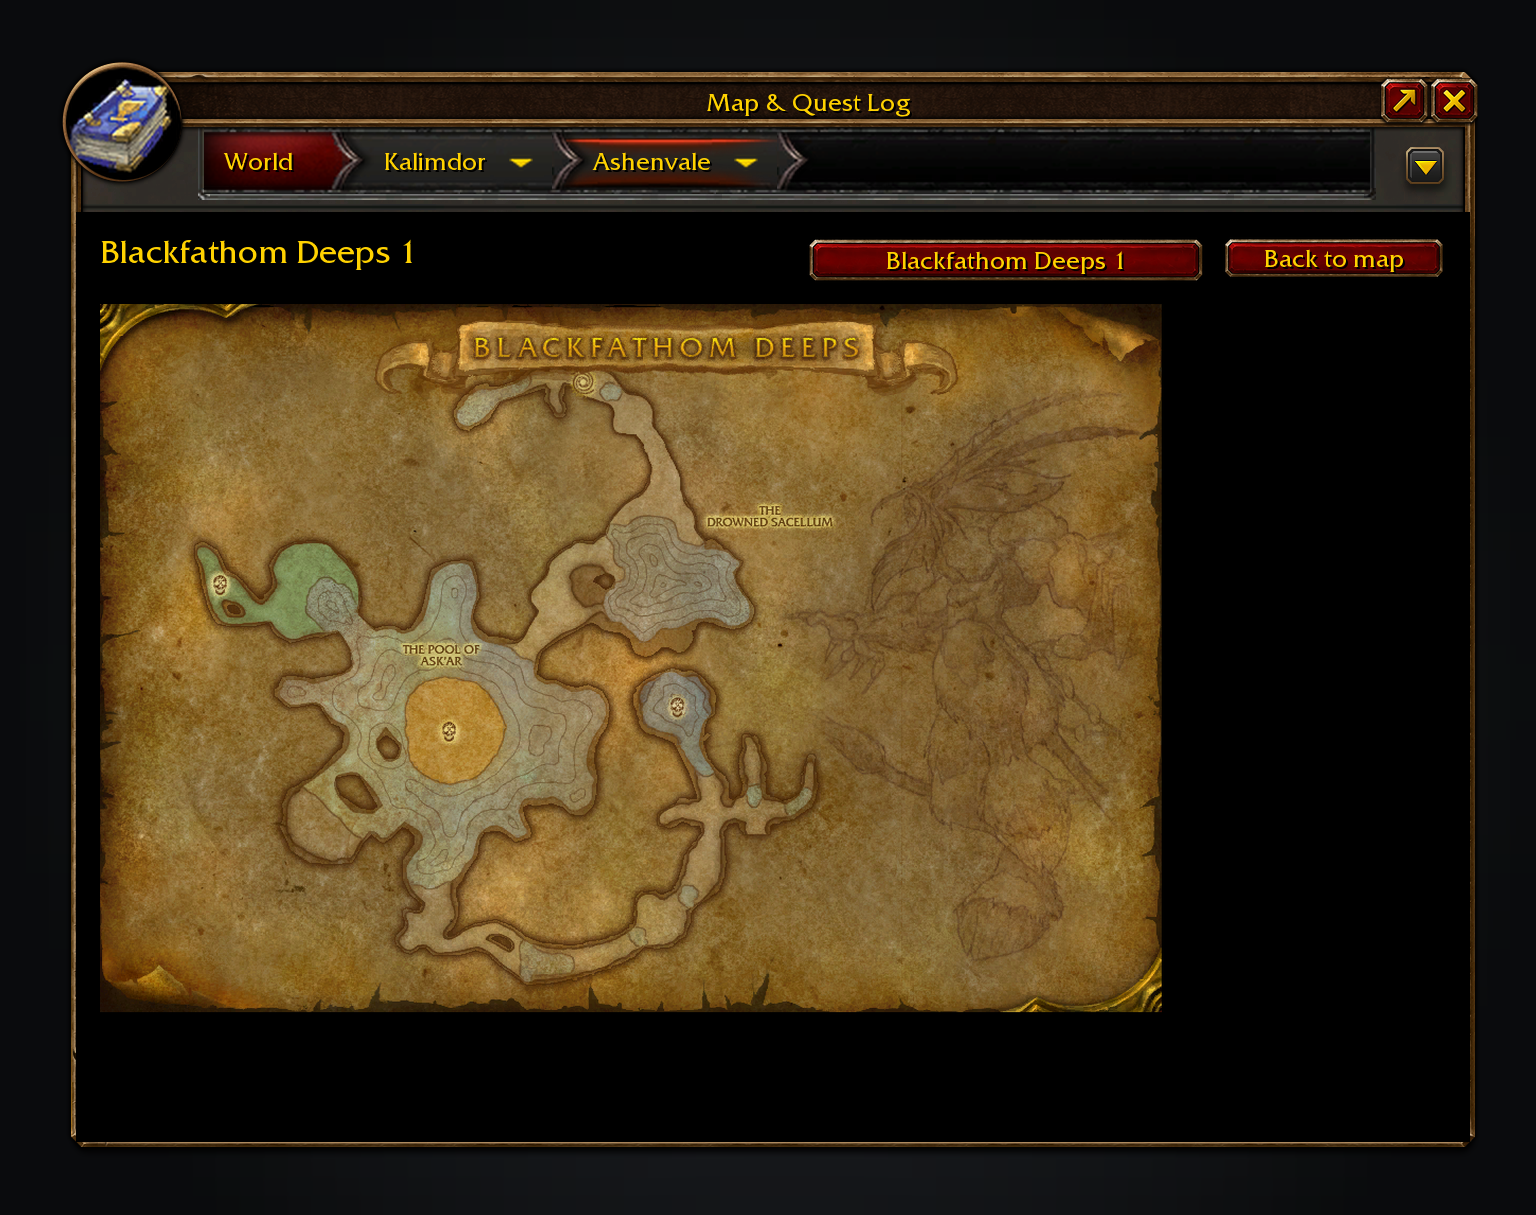
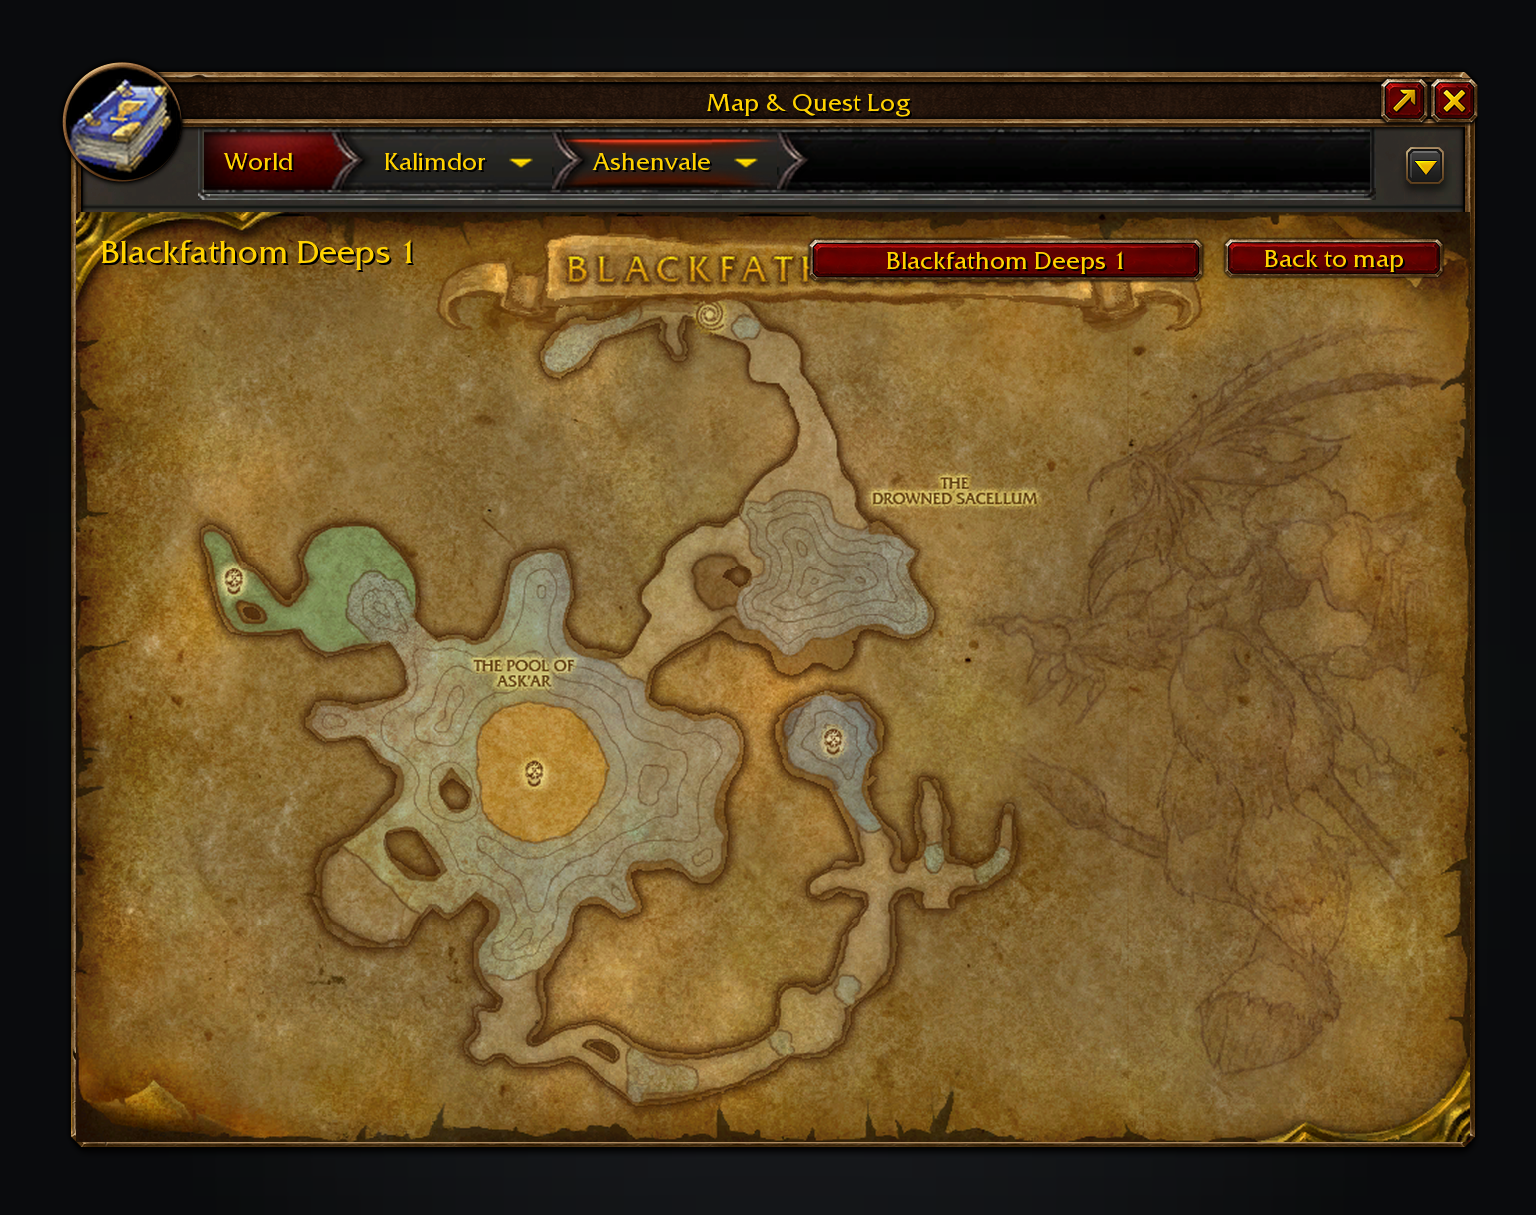
docs: dungeon map screenshot fills the map at the art's ratio
The mock drew square 256px tiles letterboxed under a header. Draw them the way
Map/DungeonMaps.lua Layout() does: across the whole map container, each tile
cropped to its slice of the 1002x668 art, heading and buttons on top. The
container keeps the art's 1.5 ratio windowed and maximized, and the test now
asserts the drawn art keeps it.

Closes #581

Claude-Session: https://claude.ai/code/session_01KXatHKtCmQE3CtSK7hYQAU

diff --git a/tools/screenshots_test.py b/tools/screenshots_test.py
@@ -5,36 +5,89 @@ import unittest
 from pathlib import Path
 from unittest.mock import Mock
 
+from PIL import Image
+
+# Map/DungeonMaps.lua: the art's canvas, and the padded tile each of the four by three textures holds.
+ART_WIDTH, ART_HEIGHT, TEXEL = 1002, 668, 256
+# The decoded size of a tile texture, whatever the art's canvas is: texcoords are fractions of it.
+TEXTURE = 512
+# The world map's scroll container, and its maximized size. forever-core's wowmock sizes it WORLD_MAP_WIDTH 702 - 5 by
+# WORLD_MAP_HEIGHT 534 - 2 - 67, and Blizzard scales to the same ratio when maximized: the art is never stretched.
+CONTAINER, MAXIMIZED = (697, 465), (1394, 930)
+SIZES = (CONTAINER, MAXIMIZED)
+
+
+def dungeon_map(width, height):
+    """`dungeon_map` from tools/screenshots.py, with the art replaced by a real image and the map stubbed."""
+    source = Path(__file__).with_name("screenshots.py").read_text()
+    tree = ast.parse(source)
+    function = next(node for node in tree.body if isinstance(node, ast.FunctionDef) and node.name == "dungeon_map")
+    frame, ui = Mock(), Mock()
+    ui.texture.return_value = Image.new("RGBA", (TEXTURE, TEXTURE))
+    scope = {
+        "ASHENVALE": 43,
+        "FONTS": {"GameFontNormalLarge": object()},
+        "map_art": Mock(),
+        "ui_panel_button": Mock(),
+        "world_map_frame": Mock(return_value=(frame, {"container": (20, 30, width, height)})),
+    }
+    exec(compile(ast.Module(body=[function], type_ignores=[]), "screenshots.py", "exec"), scope)
+    draw = scope["dungeon_map"]
+    assert callable(draw)
+    draw(ui)
+    return frame
+
 
 class DungeonMapGeometryTest(unittest.TestCase):
-    def test_square_tiles_fit_wide_and_tall_containers(self):
-        source = Path(__file__).with_name("screenshots.py").read_text()
-        tree = ast.parse(source)
-        function = next(node for node in tree.body if isinstance(node, ast.FunctionDef) and node.name == "dungeon_map")
-        # Execute the real drawing function with art replaced by recording mocks. CI has no asset cache.
-        for width, height in ((800, 400), (400, 800)):
+    def test_tiles_fill_the_container_in_four_by_three(self):
+        # Each tile covers its own slice of the art canvas, so a row spans the container's width edge to edge.
+        for width, height in SIZES:
             with self.subTest(width=width, height=height):
-                frame, ui = Mock(), Mock()
-                scope = {
-                    "ASHENVALE": 43,
-                    "FONTS": {"GameFontNormalLarge": object()},
-                    "map_art": Mock(),
-                    "ui_panel_button": Mock(),
-                    "world_map_frame": Mock(return_value=(frame, {"container": (20, 30, width, height)})),
-                }
-                exec(compile(ast.Module(body=[function], type_ignores=[]), "screenshots.py", "exec"), scope)
-                draw = scope["dungeon_map"]
-                assert callable(draw)
-                draw(ui)
+                frame = dungeon_map(width, height)
                 self.assertEqual(frame.draw.call_count, 12)
-                rectangles = [call.args[1:5] for call in frame.draw.call_args_list]
-                self.assertEqual(len(set(rectangles)), 12)
-                for x, y, tile_width, tile_height in rectangles:
-                    self.assertAlmostEqual(tile_width, tile_height)
-                    self.assertGreaterEqual(x, 20 + 12)
-                    self.assertGreaterEqual(y, 30 + 46)
-                    self.assertLessEqual(x + tile_width, 20 + width - 12)
-                    self.assertLessEqual(y + tile_height, 30 + height - 12)
+                tiles = [call.args[1:5] for call in frame.draw.call_args_list]
+                rows = [tiles[at : at + 4] for at in range(0, 12, 4)]
+                self.assertAlmostEqual(rows[0][0][0], 20)
+                self.assertAlmostEqual(rows[0][0][1], 30)
+                for row in rows:
+                    for left, right in zip(row, row[1:], strict=False):
+                        self.assertAlmostEqual(left[0] + left[2], right[0], places=6)
+                    self.assertAlmostEqual(row[-1][0] + row[-1][2], 20 + width, places=6)
+                for upper, lower in zip(rows, rows[1:], strict=False):
+                    for above, below in zip(upper, lower, strict=True):
+                        self.assertAlmostEqual(above[1] + above[3], below[1], places=6)
+                self.assertAlmostEqual(rows[-1][-1][1] + rows[-1][-1][3], 30 + height, places=6)
+                # The whole art, from the first tile's top-left to the last tile's bottom-right, keeps the art's ratio:
+                # the map is never deformed.
+                art_left, art_top = rows[0][0][0], rows[0][0][1]
+                art_right = rows[-1][-1][0] + rows[-1][-1][2]
+                art_bottom = rows[-1][-1][1] + rows[-1][-1][3]
+                self.assertAlmostEqual(
+                    (art_right - art_left) / (art_bottom - art_top),
+                    ART_WIDTH / ART_HEIGHT,
+                    delta=ART_WIDTH / ART_HEIGHT * 0.005,
+                )
+
+    def test_tiles_are_the_art_canvas_slices(self):
+        # Each tile is the slice of the art canvas it holds, in a container that has the art's own ratio.
+        for width, height in SIZES:
+            with self.subTest(width=width, height=height):
+                frame = dungeon_map(width, height)
+                tiles = [call.args[1:5] for call in frame.draw.call_args_list]
+                for index, (_, _, tile_width, tile_height) in enumerate(tiles):
+                    left, top = index % 4 * TEXEL, index // 4 * TEXEL
+                    self.assertAlmostEqual(tile_width, width * min(TEXEL, ART_WIDTH - left) / ART_WIDTH, places=6)
+                    self.assertAlmostEqual(tile_height, height * min(TEXEL, ART_HEIGHT - top) / ART_HEIGHT, places=6)
+
+    def test_tiles_are_cropped_to_their_texcoords(self):
+        # Layout crops the padded texture: the last column keeps 234 of the art's 1002 pixels, the last row 156 of 668.
+        for width, height in SIZES:
+            with self.subTest(width=width, height=height):
+                crops = [call.args[0].size for call in dungeon_map(width, height).draw.call_args_list]
+                self.assertEqual(crops[0], (TEXTURE, TEXTURE))
+                self.assertEqual(crops[3], (round(TEXTURE * 234 / TEXEL), TEXTURE))
+                self.assertEqual(crops[8], (TEXTURE, round(TEXTURE * 156 / TEXEL)))
+                self.assertEqual(crops[11], (round(TEXTURE * 234 / TEXEL), round(TEXTURE * 156 / TEXEL)))
 
 
 if __name__ == "__main__":

diff --git a/tools/screenshots.py b/tools/screenshots.py
@@ -300,18 +300,24 @@ def dungeon_map(ui):
     frame, rects = world_map_frame(ui, map_art(ui, ASHENVALE), nav, arrows=nav[1:])
     cx, cy, cw, ch = rects["container"]
     frame.fill(cx, cy, cw, ch, (0, 0, 0, 1))
-    pad, header, columns, rows = 12, 46, 4, 3
-    side = min(cw - 2 * pad, (ch - header - pad) * columns / rows)
-    tile_w = tile_h = side / columns
+    # Map/DungeonMaps.lua's Layout: a 1002x668 art canvas in padded 256px tiles, the art filling the whole container.
+    # Each tile is cropped to its top-left slice of the art, as its texcoords do.
+    art_w, art_h, texel, columns, rows = 1002, 668, 256, 4, 3
     for index in range(1, columns * rows + 1):
+        left = (index - 1) % columns * texel
+        top = (index - 1) // columns * texel
+        tile_w, tile_h = min(texel, art_w - left), min(texel, art_h - top)
         tile = ui.texture(f"Interface\\WorldMap\\BlackfathomDeeps\\BlackfathomDeeps1_{index}.blp")
+        width, height = tile.size
         frame.draw(
-            tile,
-            cx + pad + (index - 1) % columns * tile_w,
-            cy + header + (index - 1) // columns * tile_h,
-            tile_w,
-            tile_h,
+            tile.crop((0, 0, round(width * tile_w / texel), round(height * tile_h / texel))),
+            cx + cw * left / art_w,
+            cy + ch * top / art_h,
+            cw * tile_w / art_w,
+            ch * tile_h / art_h,
         )
+    # The heading and the two buttons sit on the art afterwards, at their own inset.
+    pad = 12
     back_x = cx + cw - pad - 112
     ui_panel_button(frame, back_x, cy + pad, 112, 22, "Back to map")
     ui_panel_button(frame, back_x - 8 - 200, cy + pad, 200, 24, title)
